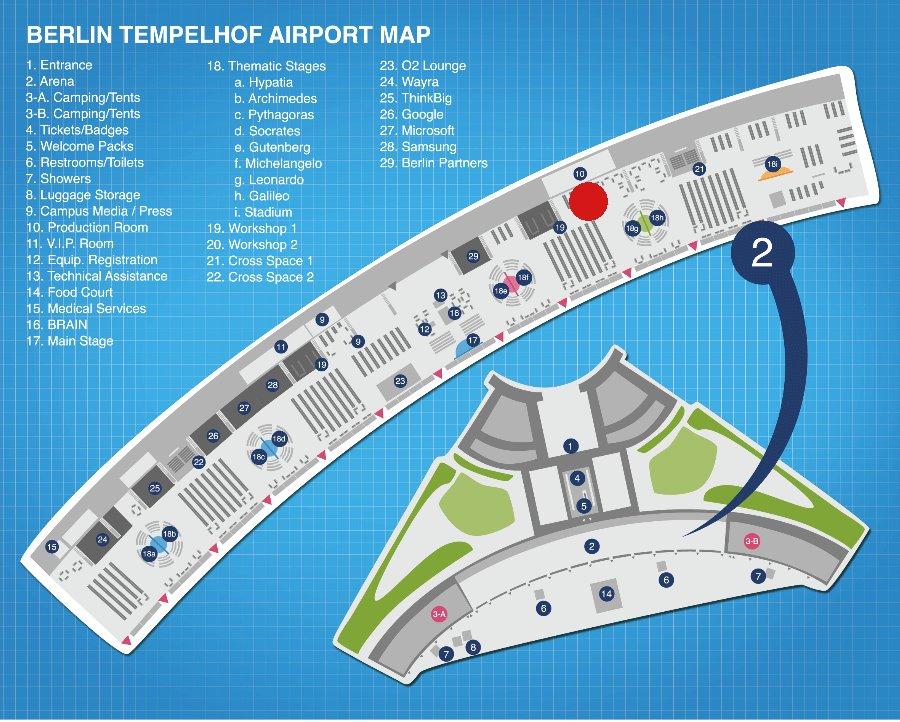
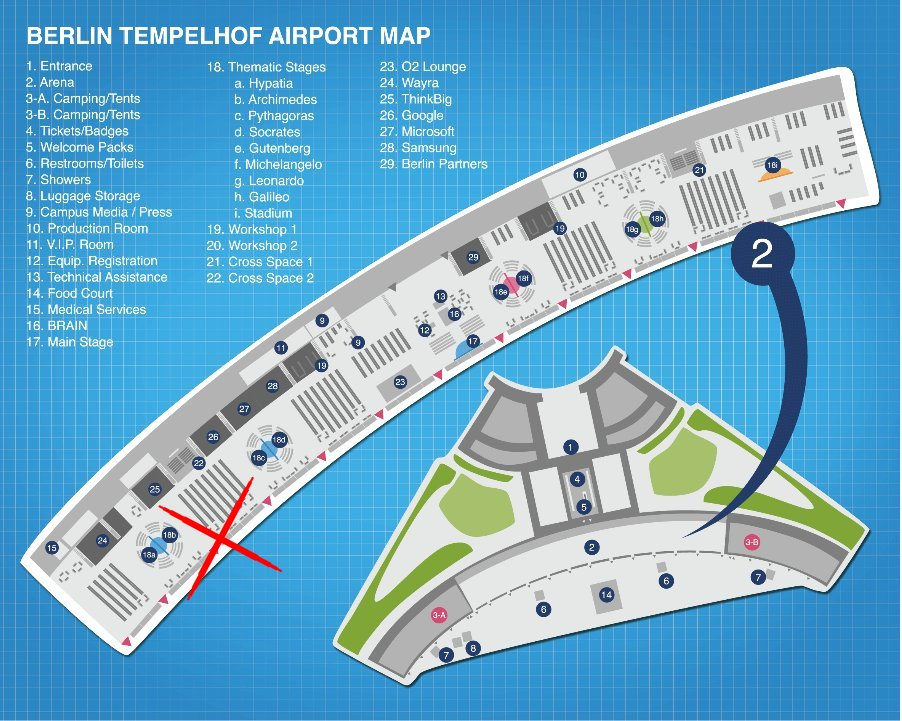
new version of floorplan

diff --git a/index.html b/index.html
@@ -12,7 +12,7 @@ calendar: i7mub9occb41i9193rob6g4lus@group.calendar.google.com
     <h2 id="floorplan"><span>Floorplan</span></h2>
     <div class="container_small">
       <p>
-      You can find us here:
+      Our meeting point is between the stages Archimedes&nbsp;(18b) and Pythagoras&nbsp;(18c) in the lounge area at the containers in the back:
       <a href="/images/floorplan.jpg"><img src="/images/floorplan.jpg"></a>
       </p>
 
